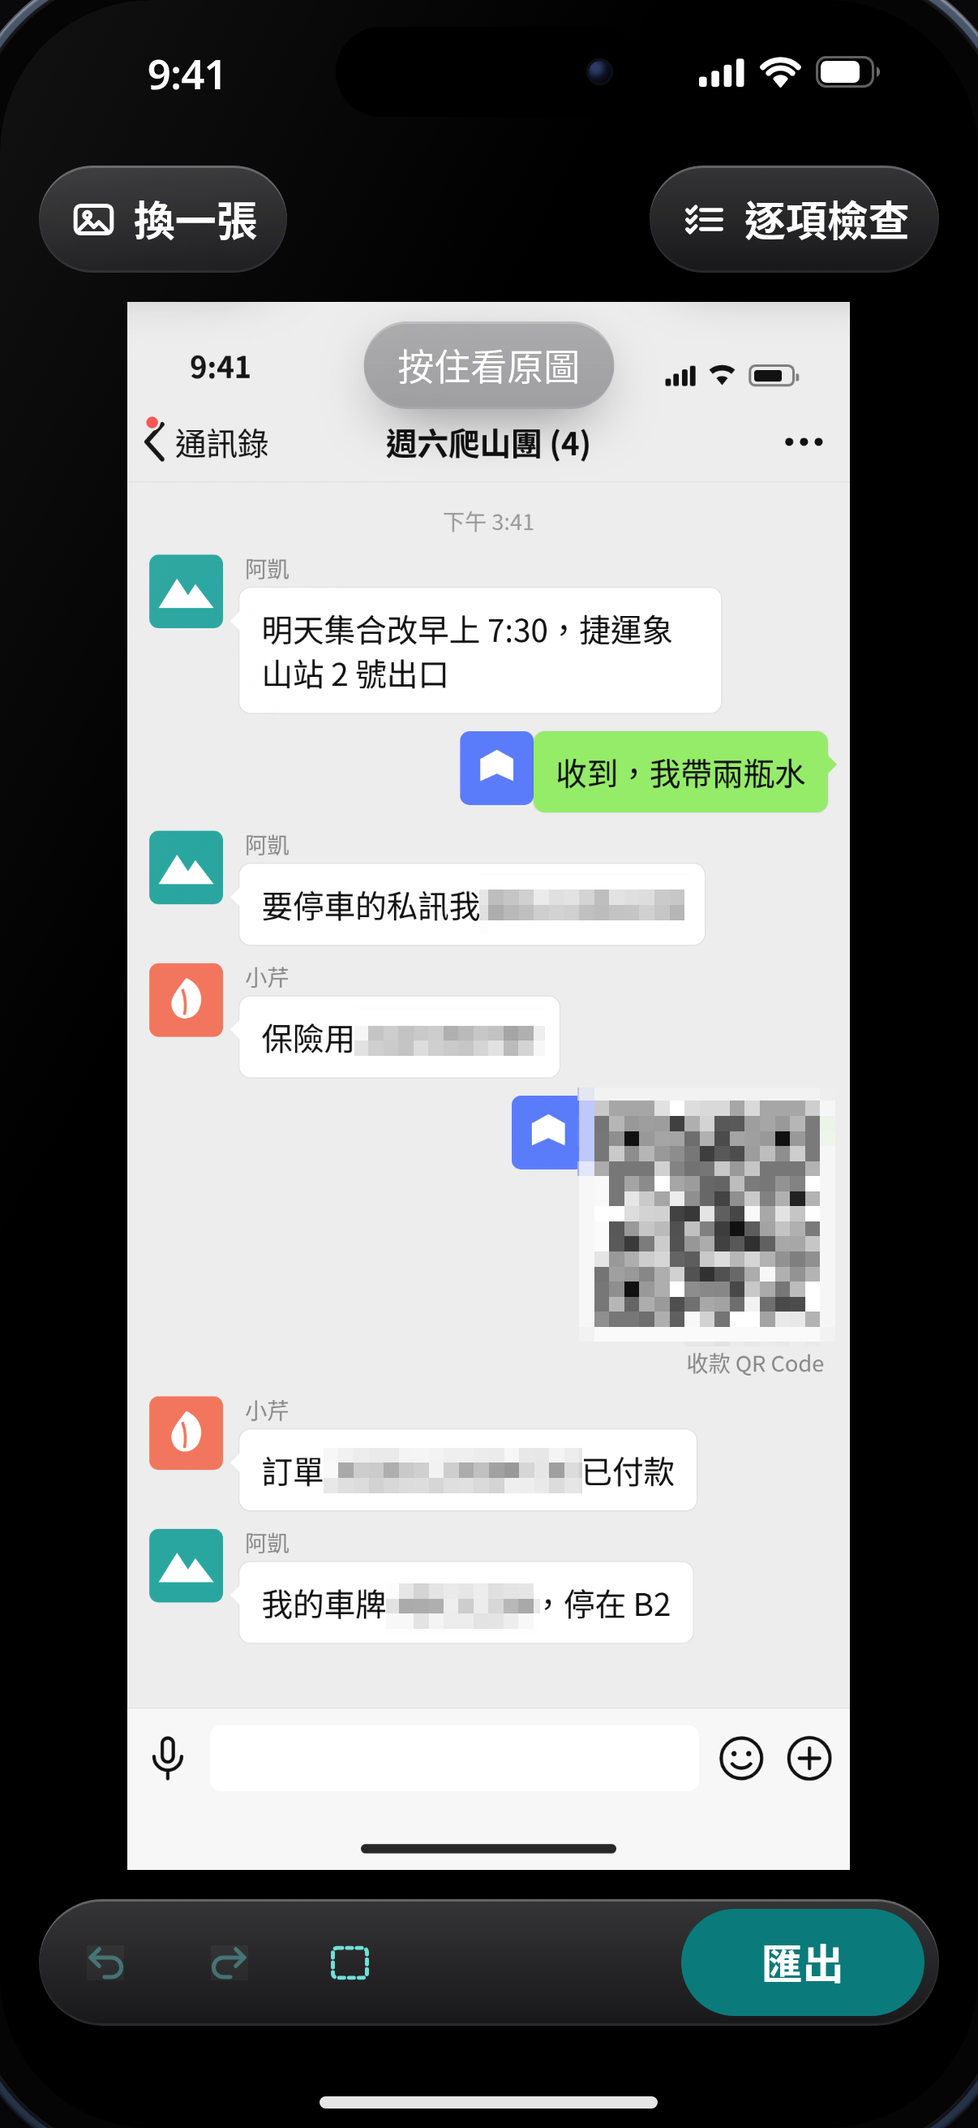
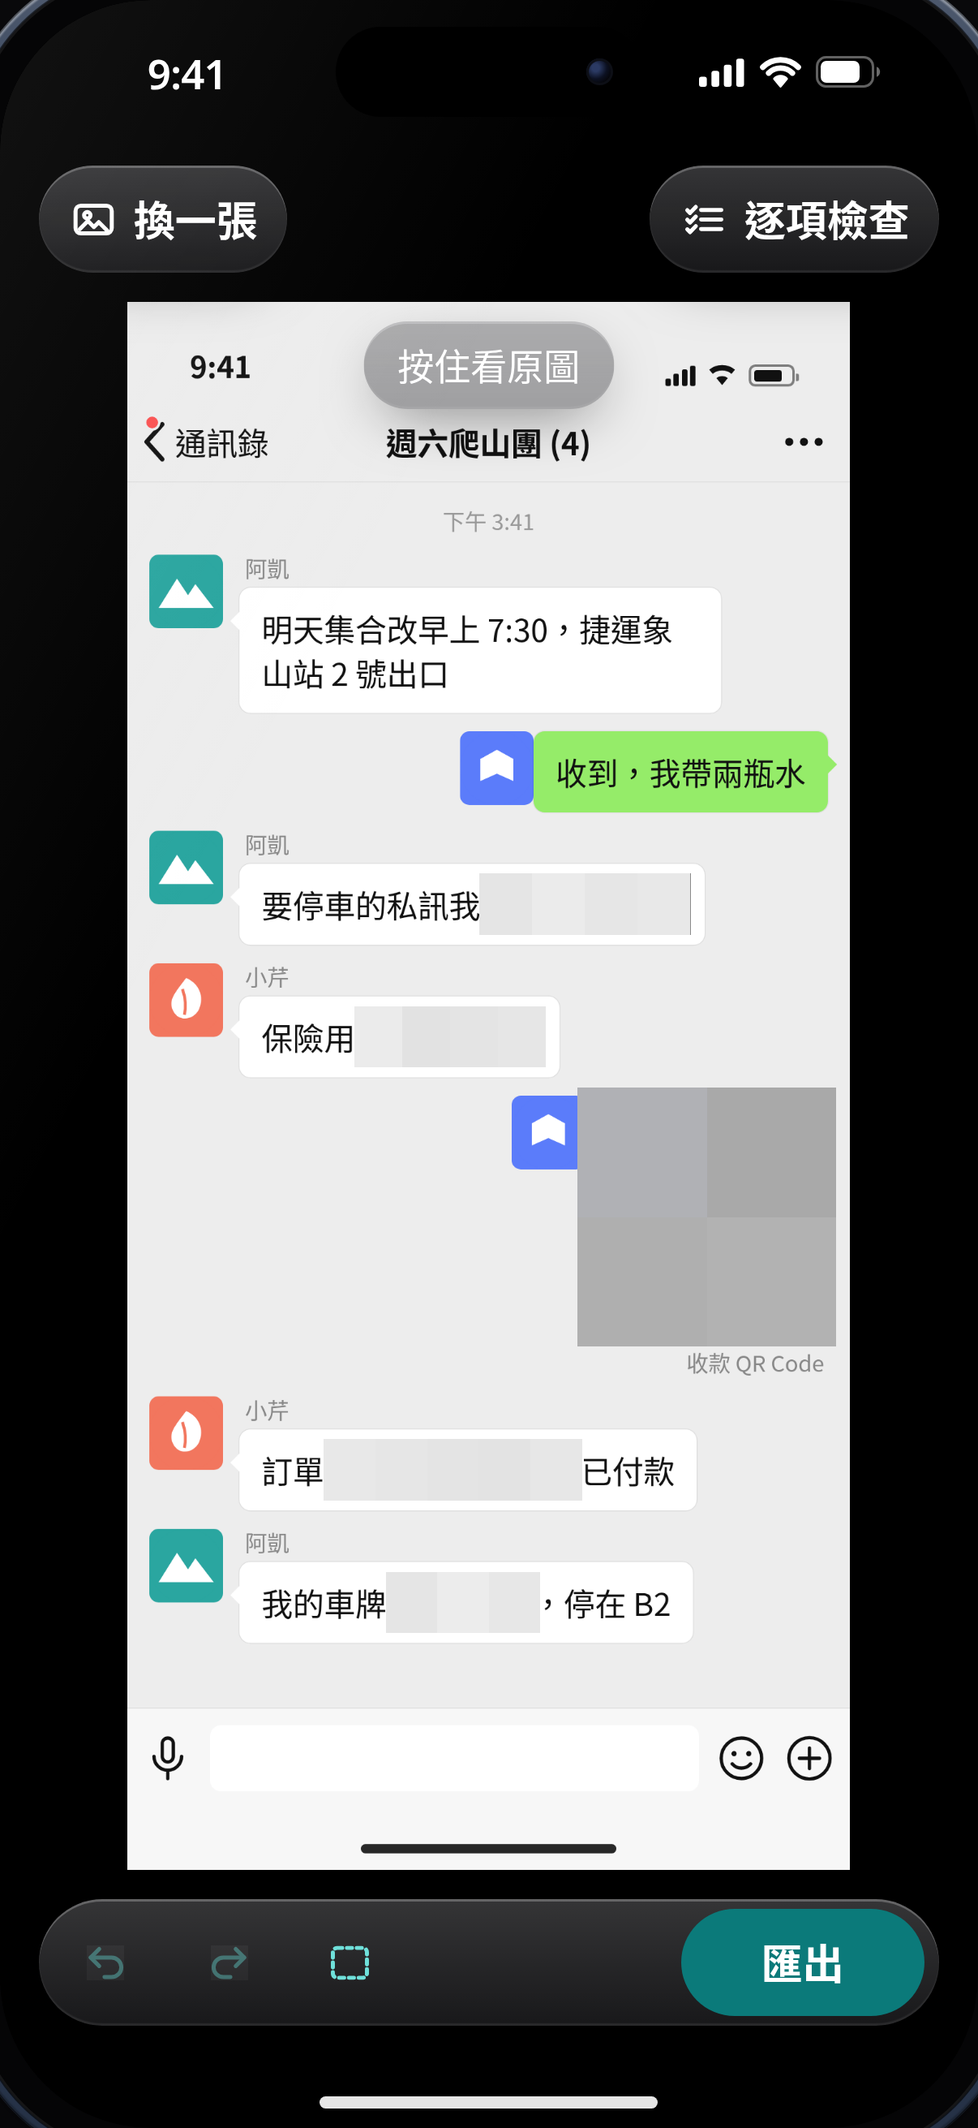
docs(ios): design 1.6 — 马赛克格子写成能量的数，导出页提醒条 6.3.3；32 张截图重截 [skip ci]
马赛克（§7.3.2）：文字类一块一行或两行格，每格不小于一个字高；码两行；手画的框一行；人脸还是盖框高 ÷ 6；格子把盖框正好分完。模糊用同一张格子图抹平。改正两处和实机不符的旧值（图缩到宽 48 px、模糊半径图宽 4.3%）。

导出页（§6、§7.5.2）：样式是马赛克、图上有文字类遮盖时出 6.3.3 加按钮 6.3.2，只有人脸、码、手画的框时不出（Ato，copy.md 1.9）；提醒条放不下并排就上下排（94 高）；6.2.4 只在纯色下出。

截图：样机 v32 重截，17 张和原来逐像素相同。依据文案 1.9。

Docs only, so [skip ci]: a push to main would cancel the queued IPA build.

diff --git a/docs/ios/design.md b/docs/ios/design.md
@@ -1,7 +1,7 @@
 # 秒遮 / QuickCover — 界面规格（design.md）
 
-版本 1.5.1 · 2026-11-24 · Colo（@design）
-依据：简报 `docs/ios/brief.md` 1.5、文案 `docs/ios/copy.md` 1.7。界面上的字只从 copy.md 按编号取，这份文件不另写一句。
+版本 1.6 · 2026-11-24 · Colo（@design）
+依据：简报 `docs/ios/brief.md` 1.5、文案 `docs/ios/copy.md` 1.9。界面上的字只从 copy.md 按编号取，这份文件不另写一句。
 可点的样机：<https://airbuild.page/a804c16b-33d0-4405-b933-6ef81e8da3c9>。右栏「状态」切编辑页会遇到的九种情况，「屏幕」切各页，「方案」切繁體 / 简体 / English。样机整个是深色，强调色就是青綠；右栏的「外观」不用切。
 **Steve 定了两条（2026-11-23）**：强调色和图标用青綠，整个 App 全黑。这一版就是按这两条改的；浅色外观不做。
 样机截图在 `docs/ios/design-shots/`，都是 1206×2622（402×874 pt 的三倍，iPhone 16 Pro 的屏），文件名开头的小节号对应本文的小节（§7 各屏，§10.1 图标）。
@@ -19,6 +19,7 @@
 - 1.4.1 改了什么：只补编号，画面不动——「文字 1」「文字 2」那一行卡片和它的图标行带上 4.5.10（§7.3、§10.3，Camo 提的）；依据里的文案换成 1.7（只改了 4.1.1 的说明句）。
 - 1.5 改了什么：放大字号时按钮的字放不放得下，改成按宽度判断、不按字号档位（§3、§6、§9.5）。字先缩、最小 0.85，再放不下就只留图标；编辑页顶部两个按钮同进同退，「匯出」同一条。起因是 Pluso 实测：英文默认字号就要缩到 0.91，xLarge 起放不下，原规格没写到。画面在默认字号下没变，截图没重截。
 - 1.5.1 改了什么：量了 Pluso 的英文 xLarge、AX1、AX5 三张截图。补上「匯出」只留图标时的图标（`square.and.arrow.up`，胶囊还是 100 宽，§6、§10.3）；写明顶部两个按钮只留图标时必须是 44×44 的圆（他现在是 54.7×44、50×44，已提给他改，§6）；编辑页在辅助功能档的样子看过了，§12.2 第 4 条划掉一半。画面在默认字号下没变。
+- 1.6 改了什么：马赛克的格子写成能量的数（§7.3.2）——文字类一块一行或两行格、每格不小于一个字高，码两行，手画的框一行，人脸还是盖框高 ÷ 6；格子把盖框正好分完；模糊用同一张格子图抹平。改正两处旧值：「图缩到宽 48 px」「模糊半径是图宽的 4.3%」都和实机不符，换成上面的写法。导出页样式是马赛克、图上有文字类遮盖时多一条 6.3.3 加按钮 6.3.2，图里只有人脸、码、手画的框时不出（§6、§7.5.2；Ato，copy.md 1.9）；提醒条放不下并排就上下排；打勾那行 6.2.4 改成只在纯色下出（copy.md 1.8）。32 张截图全部重截。
 - 标「待定」的是要别人定的，标「未验」的是我没验证过的，都收在 §12。
 - 没有的东西不画占位、不写「暂无」。§7.1.3、§7.1.4、§7.3.4、§7.3.5 四张就是照这条做的。
 - 样机里的两张样图是假数据：聊天截图 14 项（命中规则的文字 4、其余文字 9、二维码 1），照片 2 张人脸。数字只用来对样子，不代表找得多准。
@@ -88,7 +89,7 @@
 | 按钮的字（主、次、图上的、提示卡里的） | semibold |  |
 | 选图页说明 3.1.2、引导页正文 3.2.2 | regular | 次要色 |
 | 图上的胶囊 4.2.1、4.8.4、4.8.5、「原圖」4.8.6 | medium；「原圖」semibold | 白字，都在玻璃上 |
-| 说明字：3.1.6、4.4.2、4.4.3、4.5.14、4.6.2、6.1.2、6.2.2、4.7.5 / 6.3.1、6.4.x、3.2.6 | regular | 次要色；提示卡里的正文用 `#A5A5AA` |
+| 说明字：3.1.6、4.4.2、4.4.3、4.5.14、4.6.2、6.1.2、6.2.2、4.7.5 / 6.3.1 / 6.3.3、6.4.x、3.2.6 | regular | 次要色；提示卡里的正文用 `#A5A5AA` |
 | 小标题「樣式」4.7.1 | regular | 次要色；拉丁字母大写 |
 | 小按钮的字（「改用純色」）、文字按钮的字（「再試一次」） | semibold | 强调色 |
 
@@ -123,7 +124,7 @@
 | 图上的胶囊 | 高 36，圆角 18，左右内边距 14，水平居中 |
 | 编辑页底部的提示卡 | 左右离屏边 16，圆角 16，内边距上 18、左右 16、下 14，底边离玻璃条 12 |
 | 逐项检查面板 | 最高到离屏顶 300；顶部圆角 12；抓手 36×5，圆角 3，离顶 6；面板里左右边距 32，汇总、说明、卡片都对齐 32 |
-| 提醒条 | 圆角 12，内边距左 12、右 8、上下 8，图标 20；在卡片下方 10 |
+| 提醒条 | 圆角 12，内边距左 12、右 8、上下 8，图标 20；在卡片下方 10。并排时高 52；上下排时字在上占满宽、按钮在字下面 6，高 94 |
 | 文字按钮（「再試一次」） | 高 36，左右内边距 8，没有底 |
 | 导出页的图 | 最宽 300，左右各至少留 60；圆角 10；阴影 y 6、模糊 22、黑 20% |
 | 导出页底部按钮区 | 左右 16，上下 12，离底部安全区 8；上面一层从透明到页面底的 20 pt 渐变 |
@@ -195,8 +196,10 @@ NavigationStack {
 - 系统 `Toggle`，不加标签以外的字。状态只有开关本身表示，行上不写「已遮 / 沒遮」（4.5.15、4.5.16 只给读屏，§9）。
 
 **提醒条**
-- 圆角 12 的一条：左边图标 20，中间 `.footnote` 正文色，右边可以带一个小按钮。上下内边距 8。
-- 模糊那一条（面板里是 4.7.5，导出页是 6.3.1）：底 `#FF9F0A` 16%，图标 `exclamationmark.triangle`，`#C86A00`。导出页那条右边有小按钮「改用純色」，面板里没有。
+- 圆角 12 的一条：内边距上 8、左 12、右 8、下 8；左边图标 20，和字间隔 10；中间 `.footnote` 正文色；右边可以带一个小按钮（高 36）。在卡片下方 10。
+- 字和按钮放得下才并排，这时高 52。字的宽按一行算，放不进「条的宽 − 12 − 20 − 10 − 按钮的宽 − 10 − 8」就上下排：字在上占满一行的宽，按钮在字下面 6，左沿和字对齐。按量出来的宽度判断，不按语言写死。
+- 模糊那一条（面板里是 4.7.5，导出页是 6.3.1）：底 `#FF9F0A` 16%，图标 `exclamationmark.triangle`，`#C86A00`。导出页那条右边有小按钮 6.3.2「改用純色」，面板里没有。三种语言都是一行、并排，高 52。
+- 马赛克那一条（只在导出页，6.3.3，什么时候出见 §7.5.2）：底和图标同上，带小按钮 6.3.2「改用純色」。三种语言都放不下并排，都是两行、上下排，高 94（上 8 + 两行字 36 + 6 + 按钮 36 + 下 8）。
 - 存失败那一条（6.4.x）：底是填充二，图标 `exclamationmark.circle`，`#FF3B30`，右边文字按钮「再試一次」。
 
 **提示卡（编辑页底部）**
@@ -297,11 +300,18 @@ NavigationStack {
 
 | 样式 | 画法 |
 |---|---|
-| 马赛克 | 把那张图缩到宽 48 px，再不插值地放大回去。盖住的地方看不出原来的字 |
-| 模糊 | 高斯模糊，半径是图宽的 4.3%；圆角 4 |
+| 马赛克 | 把盖框切成格子（行数、列数见下），每格一个颜色，是它下面像素的平均；放大回去不插值。盖住的地方看不出原来的字 |
+| 模糊 | 同一张格子图，放大时插值抹平，看不出格子的边；圆角 4 |
 | 纯色 | `#000000`；圆角 4 |
 
-- 遮盖就是找到的那一块，留边已经在里面（文字上边半个框高，下边和左右 0.2–0.25 倍框高；车牌四边 0.35–0.5 倍；人脸按简报 §6 的数），界面不再另加。马赛克要对齐格子的话只许往外贴，最多多出一格。
+- 遮盖就是找到的那一块，留边已经在里面（文字上边半个框高，下边和左右 0.2–0.25 倍框高；车牌四边 0.35–0.5 倍；人脸按简报 §6 的数），界面不再另加。
+- 格子怎么切。数都在导出的图上量，单位 px；「盖框」是这一块遮盖的框，T 是系统圈出这行字的那个框的高，也就是一个字高（17 pt 的字在截图上 T = 51）。
+  1. 文字类的一块——手機號碼、身分證號碼、銀行卡號、電子郵件、網址、IP 位址、長串數字、可能是車牌，和遮上的文字行：盖框高够 2T、而且一半够 12 px，就是两行格，每格盖框高的一半；不够就是一行格，格高等于盖框高。一行字的盖框高 1.7–1.75T，不够 2T，所以一行字是一行格（T = 51 时格子高 87–89）；一块占几行字，也最多两行格。
+  2. 二维码、条形码：没有字高，两行格，每格盖框高的一半。
+  3. 手画的框：没有字高，一行格，格高等于盖框高。
+  4. 人脸：格子是盖框高 ÷ 6，行数是盖框高 ÷ 格子、进一，盖框够 72 px 高就是六行。这一条照实机，没动；1.5 以前写的「图缩到宽 48 px」是错的。
+  5. 格子的高不到 12 px 时取 12 px。
+  6. 列数是盖框的宽除以格子的高，除不尽进一；每格的宽是盖框的宽除以列数。左右、上下都正好分完，不往外贴（只第 5 条多出来的往下贴）。
 - 盖上的时候从 0.6 放大到 1，0.26 秒；所有块同时出现，不排队（§8）。
 - 默认遮的（copy.md §4.5）：人脸、手机号、身份证号、银行卡号、邮箱、网址、IP、长串数字、可能是车牌、二维码、条形码。默认不遮的只有「文字」，图上原样显示，什么都不画。
 - 手势：两指缩放 1 到 4 倍、拖动；松手后图不会拖出可视区。单指点图上没有反应，不选中任何东西。
@@ -382,15 +392,22 @@ NavigationStack {
 
 系统导航栏：左边是系统返回键（圆形玻璃箭头，不带字，§5），标题 6.1.1。页面从上到下，能滚；按钮钉在底部。
 
-1. 顶上 12：导出的图，居中。最宽 300、最高 380，按比例。上面就是遮好了的样子，和存下来的一模一样。圆角 10，阴影 y 6、模糊 22、黑 20%。
+1. 顶上 12：导出的图，居中。最宽 300、最高 380（下面有提醒条时 285，§7.5.2），按比例。上面就是遮好了的样子，和存下来的一模一样。圆角 10，阴影 y 6、模糊 22、黑 20%。
 2. 图下 10：6.1.2，`.footnote`，次要色，居中。下面 22。
 3. 一张卡片，一行：6.2.1「移除位置資訊」，下面小字（开着是 6.2.2，关了是 6.2.3），右边开关，默认开。
-4. 卡片下 10：一行说明字 6.2.4（`.footnote`，次要色，左右 32），前面 `checkmark` 15 pt 强调色。**只在样式是马赛克或纯色时有这一行，模糊时没有**：模糊后的像素就是遮住的内容，和下面的 6.3.1 放在一起两句打架（Ato，2026-11-23）。
+4. 卡片下 10：一行说明字 6.2.4（`.footnote`，次要色，左右 32），前面 `checkmark` 15 pt 强调色。**只在样式是纯色时有这一行**：模糊后的像素就是遮住的内容，和 6.3.1 放在一起两句打架（Ato，2026-11-23）；马赛克下格子的深浅会留在新图里，和 6.3.3 打架（Ato，2026-11-24，copy.md 1.8）。
 5. 钉在底部（左右 16，上下 12，离底部安全区 8）：主按钮 6.1.3「儲存到照片」；下面 10 是并排的次按钮 6.1.4「分享」和 6.1.5「拷貝」。按钮区上面一层 20 pt 的渐变，从透明到页面底，内容从下面滚过去不顶到按钮上。
 
-#### 7.5.2 上次用的是模糊 `7-5-export-blur.png`
+#### 7.5.2 提醒条 `7-5-export-blur.png`、照片 `7-5-export-photo.png`
 
-样式是模糊、而且不是这次自己选的时，位置信息卡片下面 10 多一条提醒：一行 6.3.1「模糊可能被還原。」加右边小按钮 6.3.2「改用純色」（§6 的提醒条）。这句只说风险，做法让按钮说；面板里那次自己选模糊时出的 4.7.5 还是整句，两条不是同一句（copy.md 1.5）。点了换成纯色，图和遮盖马上变，提醒收起。这时的图最高 285，给提醒让地方。
+位置信息卡片下面 10，不钉底，跟着页面滚。两种都跟着样式走，样式只是一种，所以最多出其中一条（存失败那条另算，§7.5.3）：
+
+- **样式是马赛克、而且图上有文字类的遮盖**时出 6.3.3 加小按钮 6.3.2「改用純色」。文字类就是 §7.3.2 第 1 条那些；人脸、二维码、条形码、手画的框不算，图里只有这三类时马赛克下什么都不出（Ato，2026-11-24，copy.md 1.9），只有人脸的照片就是 `7-5-export-photo.png`。不分是不是这次自己选的马赛克。三种语言都是两行、上下排，高 94。
+- **样式是模糊、而且不是这次自己选的**时出 6.3.1「模糊可能被還原。」加小按钮 6.3.2「改用純色」。这句只说风险，做法让按钮说；面板里那次自己选模糊时出的 4.7.5 还是整句，两条不是同一句（copy.md 1.5）。三种语言都是一行、并排，高 52。
+
+两种点了按钮都一样：换成纯色，图和遮盖马上变，提醒收起，卡片下面出 6.2.4 那一行（§7.5.1 第 4 条）。
+
+有提醒条时图最高 285，给提醒让地方。量过放得下，不用滚：提醒条的下沿到按钮区上面那层渐变，繁體、简体还剩 25，英文的位置卡片多一行，还剩 7。
 
 #### 7.5.3 存失败 `7-5-export-fail.png`
 
@@ -479,12 +496,12 @@ NavigationStack {
 - 「遮住所有文字」：名字 4.6.1，后面念 4.6.2，状态同上。
 - 4.4.3 那一行提醒：念 4.4.3，然后是按钮 4.8.3「手動框選」（同一句字，点了关面板、进拖框）。
 - 样式分段控件：系统的分段控件，念 4.7.2–4.7.4；4.7.1「樣式」是它的标签（`.accessibilityLabel`）。
-- 面板里的 4.7.5 那一条：念 4.7.5，没有按钮。导出页那条（§9.4）：念 6.3.1，然后小按钮 6.3.2「改用純色」。
+- 面板里的 4.7.5 那一条：念 4.7.5，没有按钮。导出页那两条（§9.4）：念 6.3.1 或 6.3.3，然后小按钮 6.3.2「改用純色」。
 
 ### 9.4 导出页和选图页
 
 - 都是系统的分组样式和导航栏，读法跟系统。开关那一行：名字 6.2.1，后面念 6.2.2 / 6.2.3，状态「開啟 / 關閉」。
-- 6.2.4 是静态文字，跟在卡片后面；样式是模糊时没有这一行（§7.5）。模糊那条提醒：念 6.3.1，然后按钮 6.3.2。
+- 6.2.4 是静态文字，跟在卡片后面；只在样式是纯色时有这一行（§7.5）。提醒条：模糊那条念 6.3.1，马赛克那条念 6.3.3，然后都是按钮 6.3.2。上下排的那条读的顺序也一样，先字后按钮。
 - 存好了、拷貝了：toast 出现的同时念一次 6.4.1 / 6.4.4（`AccessibilityNotification.Announcement`）。toast 本身不进顺序。
 - 存失败的提醒条：念 6.4.2，然后按钮 6.4.3。出现时念一次。
 - 系统分享面板、系统照片选择器、系统警告：系统的。
@@ -494,7 +511,7 @@ NavigationStack {
 - 全部文字用 §3 的 `Font.TextStyle`，跟 Dynamic Type 走，没有写死的字号。
 - 字放不下时只留图标，按宽度判断（§6），不按档位：编辑页顶部两个玻璃按钮、玻璃条上的「匯出」。实际是中文到 XXXL 都带字；英文 xLarge 起顶部两个只留图标。逐项检查的卡片行高随字长高，不截断。编辑页在辅助功能档的样子没画样机，看的是 Pluso 的英文 AX1、AX5 截图：和 xLarge 一样全只剩图标，图的区域一点没小。其余几页的辅助功能档还没看（未验，§12.2 第 4 条）。
 - 对比度都算过，在 §2 的表里。图上的白字都在玻璃或 `#1C1C1E` 的卡上，不直接压在图上。
-- 能点的东西最小 44×44 pt：玻璃条上的图标按钮是 44 的圆，开关那一整行都能点，提醒条里的文字按钮高 36 但点的地方上下各补 4 到 44。
+- 能点的东西最小 44×44 pt：玻璃条上的图标按钮是 44 的圆，开关那一整行都能点，提醒条里的小按钮「改用純色」和文字按钮「再試一次」高 36，点的地方上下各补 4 到 44。
 - 颜色不是唯一的提示：选中的工具除了变色，读屏念「已選取」；没遮的项除了开关是关的，读屏念「沒遮」。
 - 「降低透明度」开着时玻璃由系统变实，我们不改；「增强对比度」不用单独适配，编辑页本来就是黑底。
 - 左到右的语言就三种（繁體、简体、English），不做从右到左的布局。
@@ -611,8 +628,10 @@ Image("IconArtwork")
 | # | 事 | 谁定 | 定了之前先这样做 |
 |---|---|---|---|
 | 1 | 系统的照片权限弹窗里有哪几个按钮（「允許取用所選照片」给不给） | Pluso 选权限级别；字是系统的 | 样机里只是一种可能（§7.2.2） |
-| 2 | 6.2.4「遮住的內容不會留在新圖裡」留不留 | Ato：验收第 3 条过了才留（copy.md §9） | 先留着 |
+| 2 | 6.2.4「遮住的內容不會留在新圖裡」留不留 | Ato：验收第 3 条过了才留（copy.md §9） | 先留着，只在纯色下出（§7.5.1） |
 | 3 | 人脸的遮盖留多大边 | Pluso 按数据定（现在是左右各 0.5 个框宽、上 0.65、下 0.3） | 设计只定「一块遮盖对一个开关」，边多大照 Pluso 的数 |
+| 4 | 6.3.3 那条提醒进不进包：文字类的格子够不够粗，要找人盲看 | Ato（Pluso 裁片） | 过了才进包（copy.md 1.8）；规格和样机照出它画 |
+| 5 | 人脸在马赛克下要不要一句提醒 | Ato：等人脸裁片、盲看 | 不出（§7.5.2） |
 
 强调色和外观原来也在表里（第 1、2 条）。Steve 2026-11-23 定了青綠和全黑，已经写进 §2、§10.1、§11.1。
 
@@ -625,7 +644,7 @@ Image("IconArtwork")
 | 3 | 玻璃上白字在亮截图上的对比（真机的玻璃不是样机画的那样） | 真机：打开一张白底的聊天截图看编辑页 |
 | 4 | 其余几页在辅助功能档字号下的排布：逐项检查面板、选图页、引导页、导出页（样机没画 AX 档）。编辑页的看过了：英文 xLarge、AX1、AX5 三张，只剩图标、图不变（§6、§9.5）；英文默认字号顶部两个按钮缩到 0.91 | 模拟器切 AX 档把其余几页截给设计看 |
 | 5 | 系统的照片选择器、文件选择器、分享面板、警告在深色下是什么样 | 模拟器实拍 |
-| 6 | 马赛克够不够遮（§7.3.2：从 48 px 宽的缩图取色） | 导出原尺寸的图，在原图大小下看 |
+| 6 | 马赛克够不够遮（§7.3.2 的格子：文字类、手画的框、码、人脸） | Pluso 裁片七处，导出原尺寸的图看、放大看；文字类 Ato 找人盲看，码用系统相机对着导出的图扫、扫不出来才算过，人脸另看 |
 | 7 | 触感（§8） | 真机 |
 | 8 | 读屏的念法（§9）：一行念成「手機號碼，已遮」，自定义动作「在圖上看」 | 真机 VoiceOver |
 | 9 | 系统警告、系统弹窗的用字（§7.1.4、§7.2.2） | 模拟器实拍，和 copy.md 对 |
